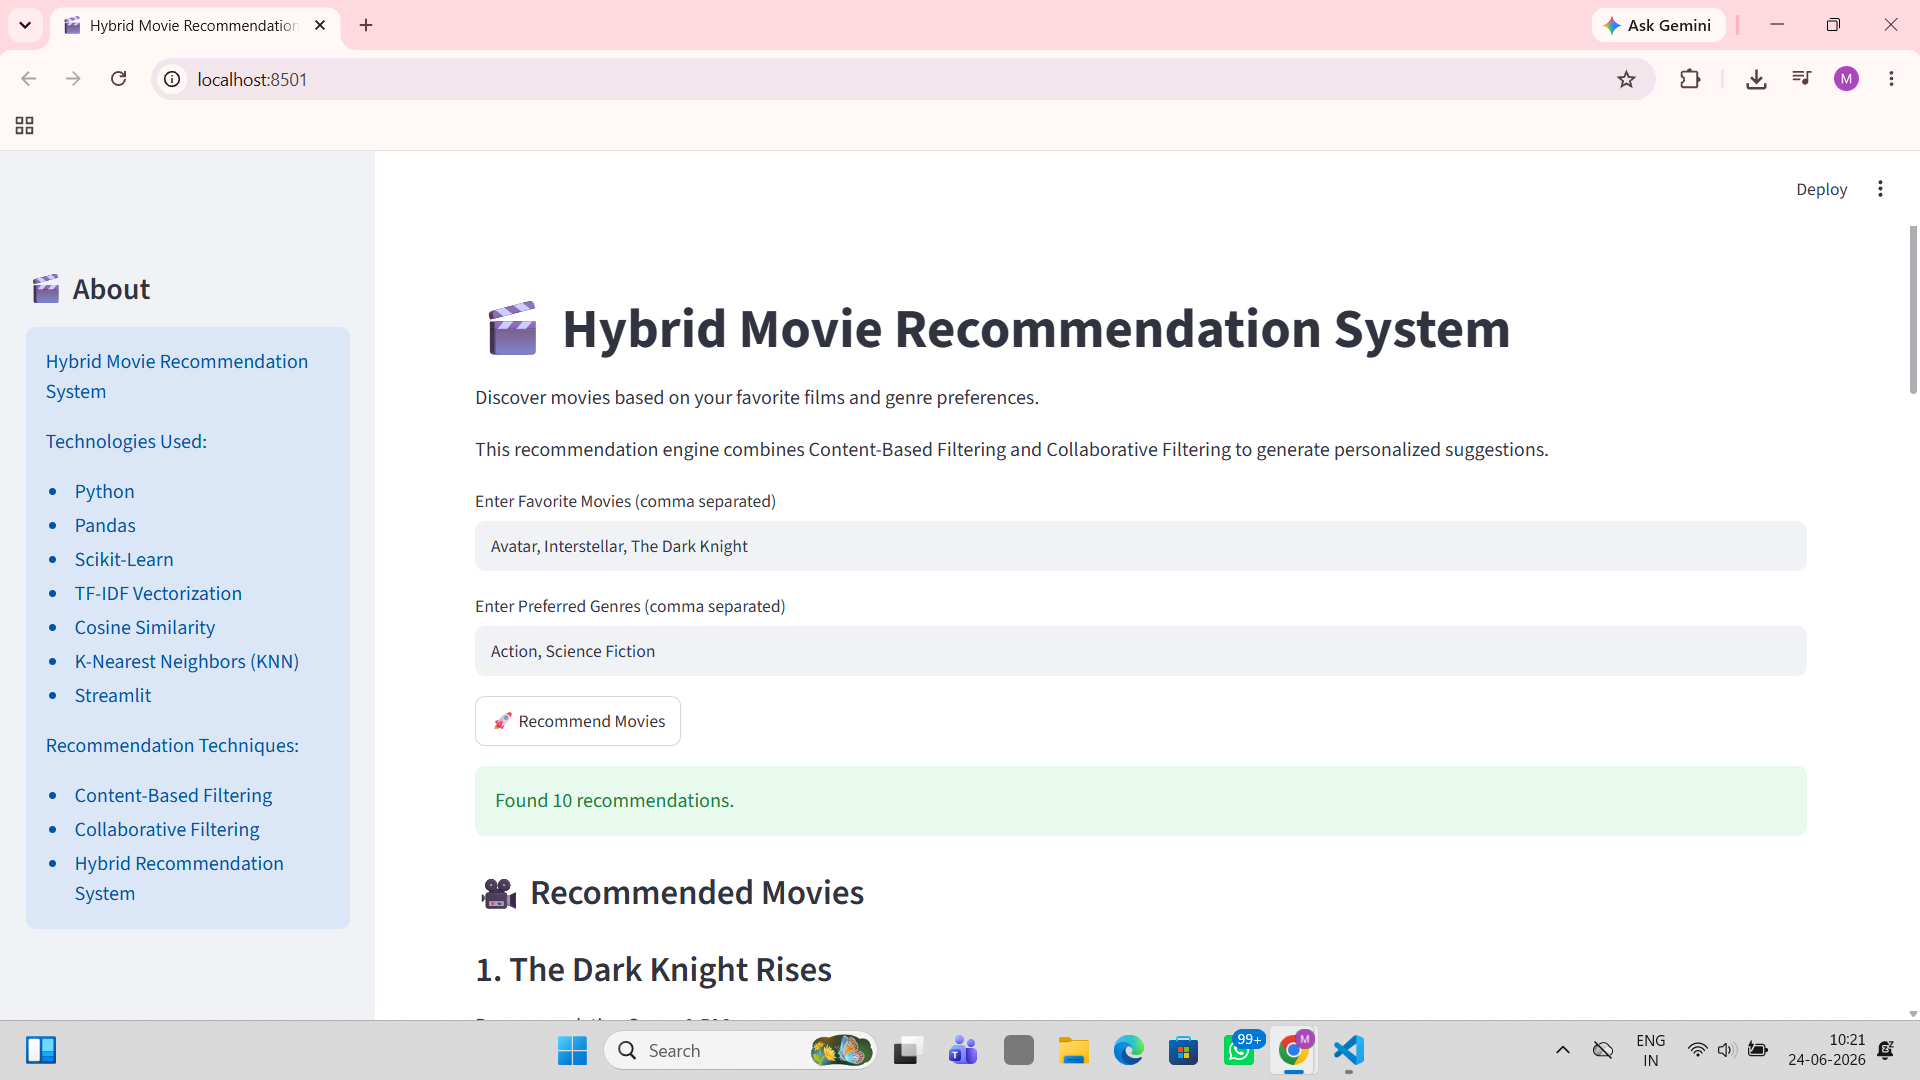
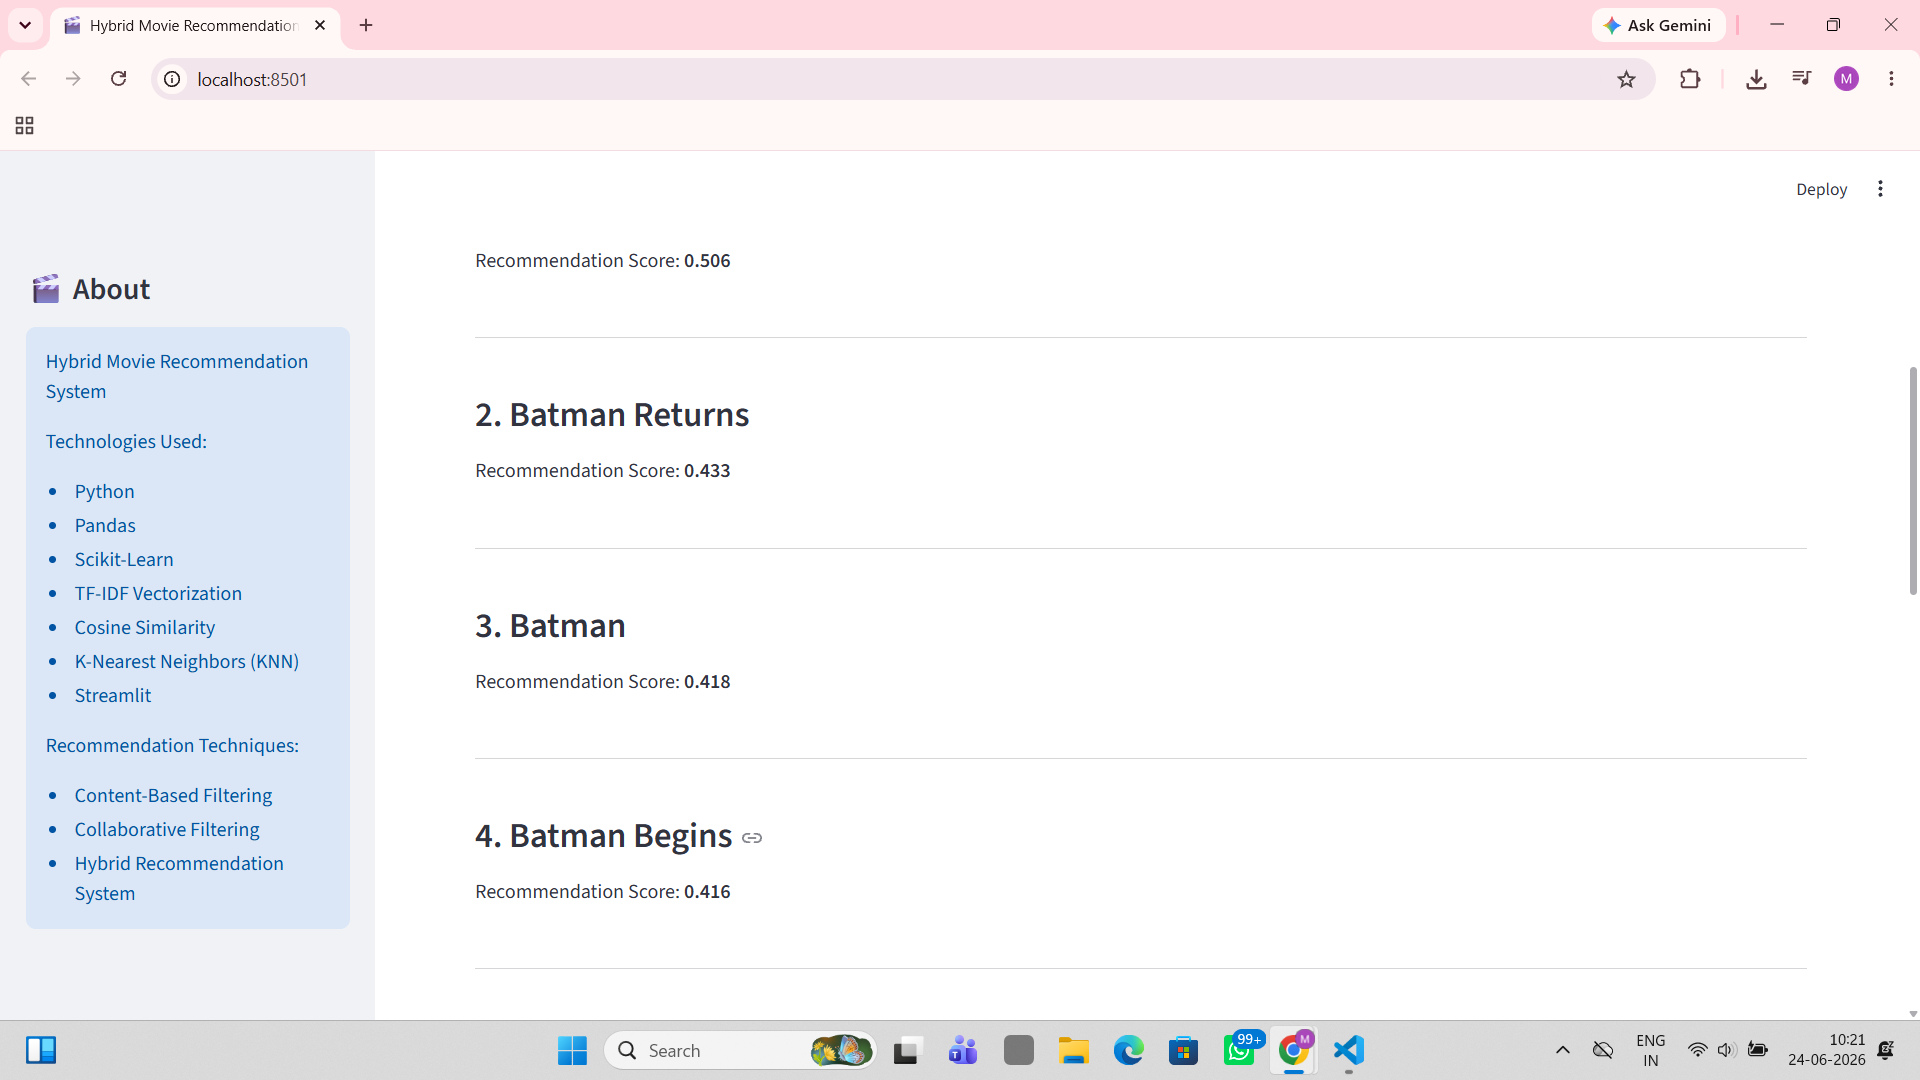
Handling movie title duplicate issue

diff --git a/src/content_based.py b/src/content_based.py
@@ -26,9 +26,15 @@ similarity = cosine_similarity(
 
 # Map movie titles to dataframe indices
 movie_indices = pd.Series(
-    movies.index,
+    movies.index.values,
     index=movies["title"].str.lower()
-).drop_duplicates()
+)
+
+movie_indices = movie_indices[
+    ~movie_indices.index.duplicated(
+        keep="first"
+    )
+]
 
 
 def recommend_with_scores(
@@ -45,6 +51,10 @@ def recommend_with_scores(
         return []
 
     movie_idx = movie_indices[movie_name]
+
+    # Handle duplicate movie titles
+    if isinstance(movie_idx, pd.Series):
+        movie_idx = movie_idx.iloc[0]
 
     similarity_scores = list(
         enumerate(

diff --git a/README.md b/README.md
@@ -195,7 +195,6 @@ Movie-Recommendation-System/
 │   ├── recommedation_output_2.png
 │   ├── recommedation_output_3.png
 │   ├── recommedation_output_4.png
-│   ├── recommedation_output_5.png
 │   ├── input.png
 │   └── output.png
 │